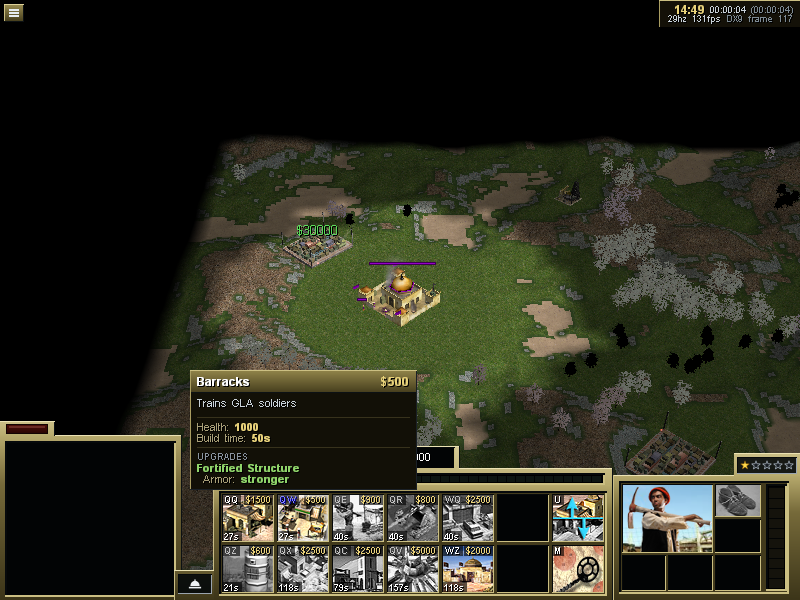
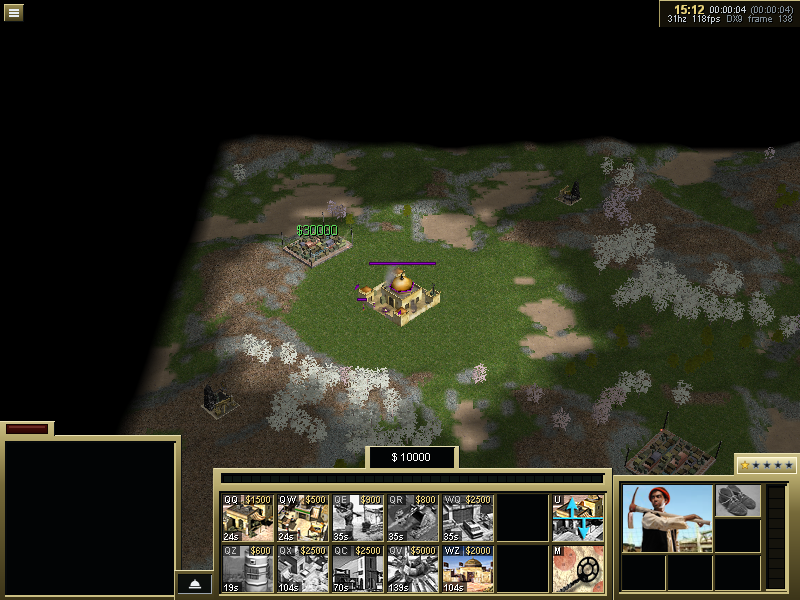
docs(macport): the first-skirmish picture after #27, trees textured
This is the same run after defect #27. The trees that drew as black
silhouettes are textured and shrouded, and they are the pale blossom
patches the first picture showed dark. The caption now says what
changed and why, and what is still known wrong: terrain blend edges,
and the radar, which is A3d.

diff --git a/docs/mac-port/tasks/A-posix-d3d9-device.md b/docs/mac-port/tasks/A-posix-d3d9-device.md
@@ -558,11 +558,17 @@ the gamma ramp by the `ZH_GPU_DUMP_FRAMES` aid.
 It took one fix outside the renderer first: particle orientation was an undefined float→byte cast,
 which ARM64 turned into a read 190 GB past the table. See the latent-UB list in the README.
 
+**The picture was replaced after defect #27.** The first dump had the trees as black silhouettes.
+`ZH_GPU_TRACE` showed their shroud stage (stage 1, camera-space texgen, set 0) sampling with stage 0's
+coordinates. That was a generator mismatch, which D3D11 and D3D9's combiner shaders have too (README
+#27). The picture above is the same run after the fix, where the pale patches are the blossom trees,
+textured and shrouded. The run: exit 0, 2,440 presents, 1,633,250 draws, and the same single refusal
+reason (20,281 render-target draws).
+
 **Known wrong in this picture:**
-- **Terrain blend tiles** are blotchy. The terrain atlas itself uploads correct (dumped with
-  `ZH_GPU_DUMP_TEXTURES`), so the fault is in the draw.
-- **Trees** draw as black silhouettes.
+- **Terrain blend tiles** still look noisy at their edges. The terrain atlas uploads correct (dumped
+  with `ZH_GPU_DUMP_TEXTURES`), so the fault is in a draw; the terrain shaders' texgen stages were one
+  suspect, and #27 softened them.
 - **The radar** is empty. It is a render target, which is A3d.
 
-The first two are A3c's; the plan is to capture the failing draws and reproduce each as a harness
-scenario.
+The terrain is A3c's; the plan is to trace its draws and reproduce the shape as a harness scenario.
